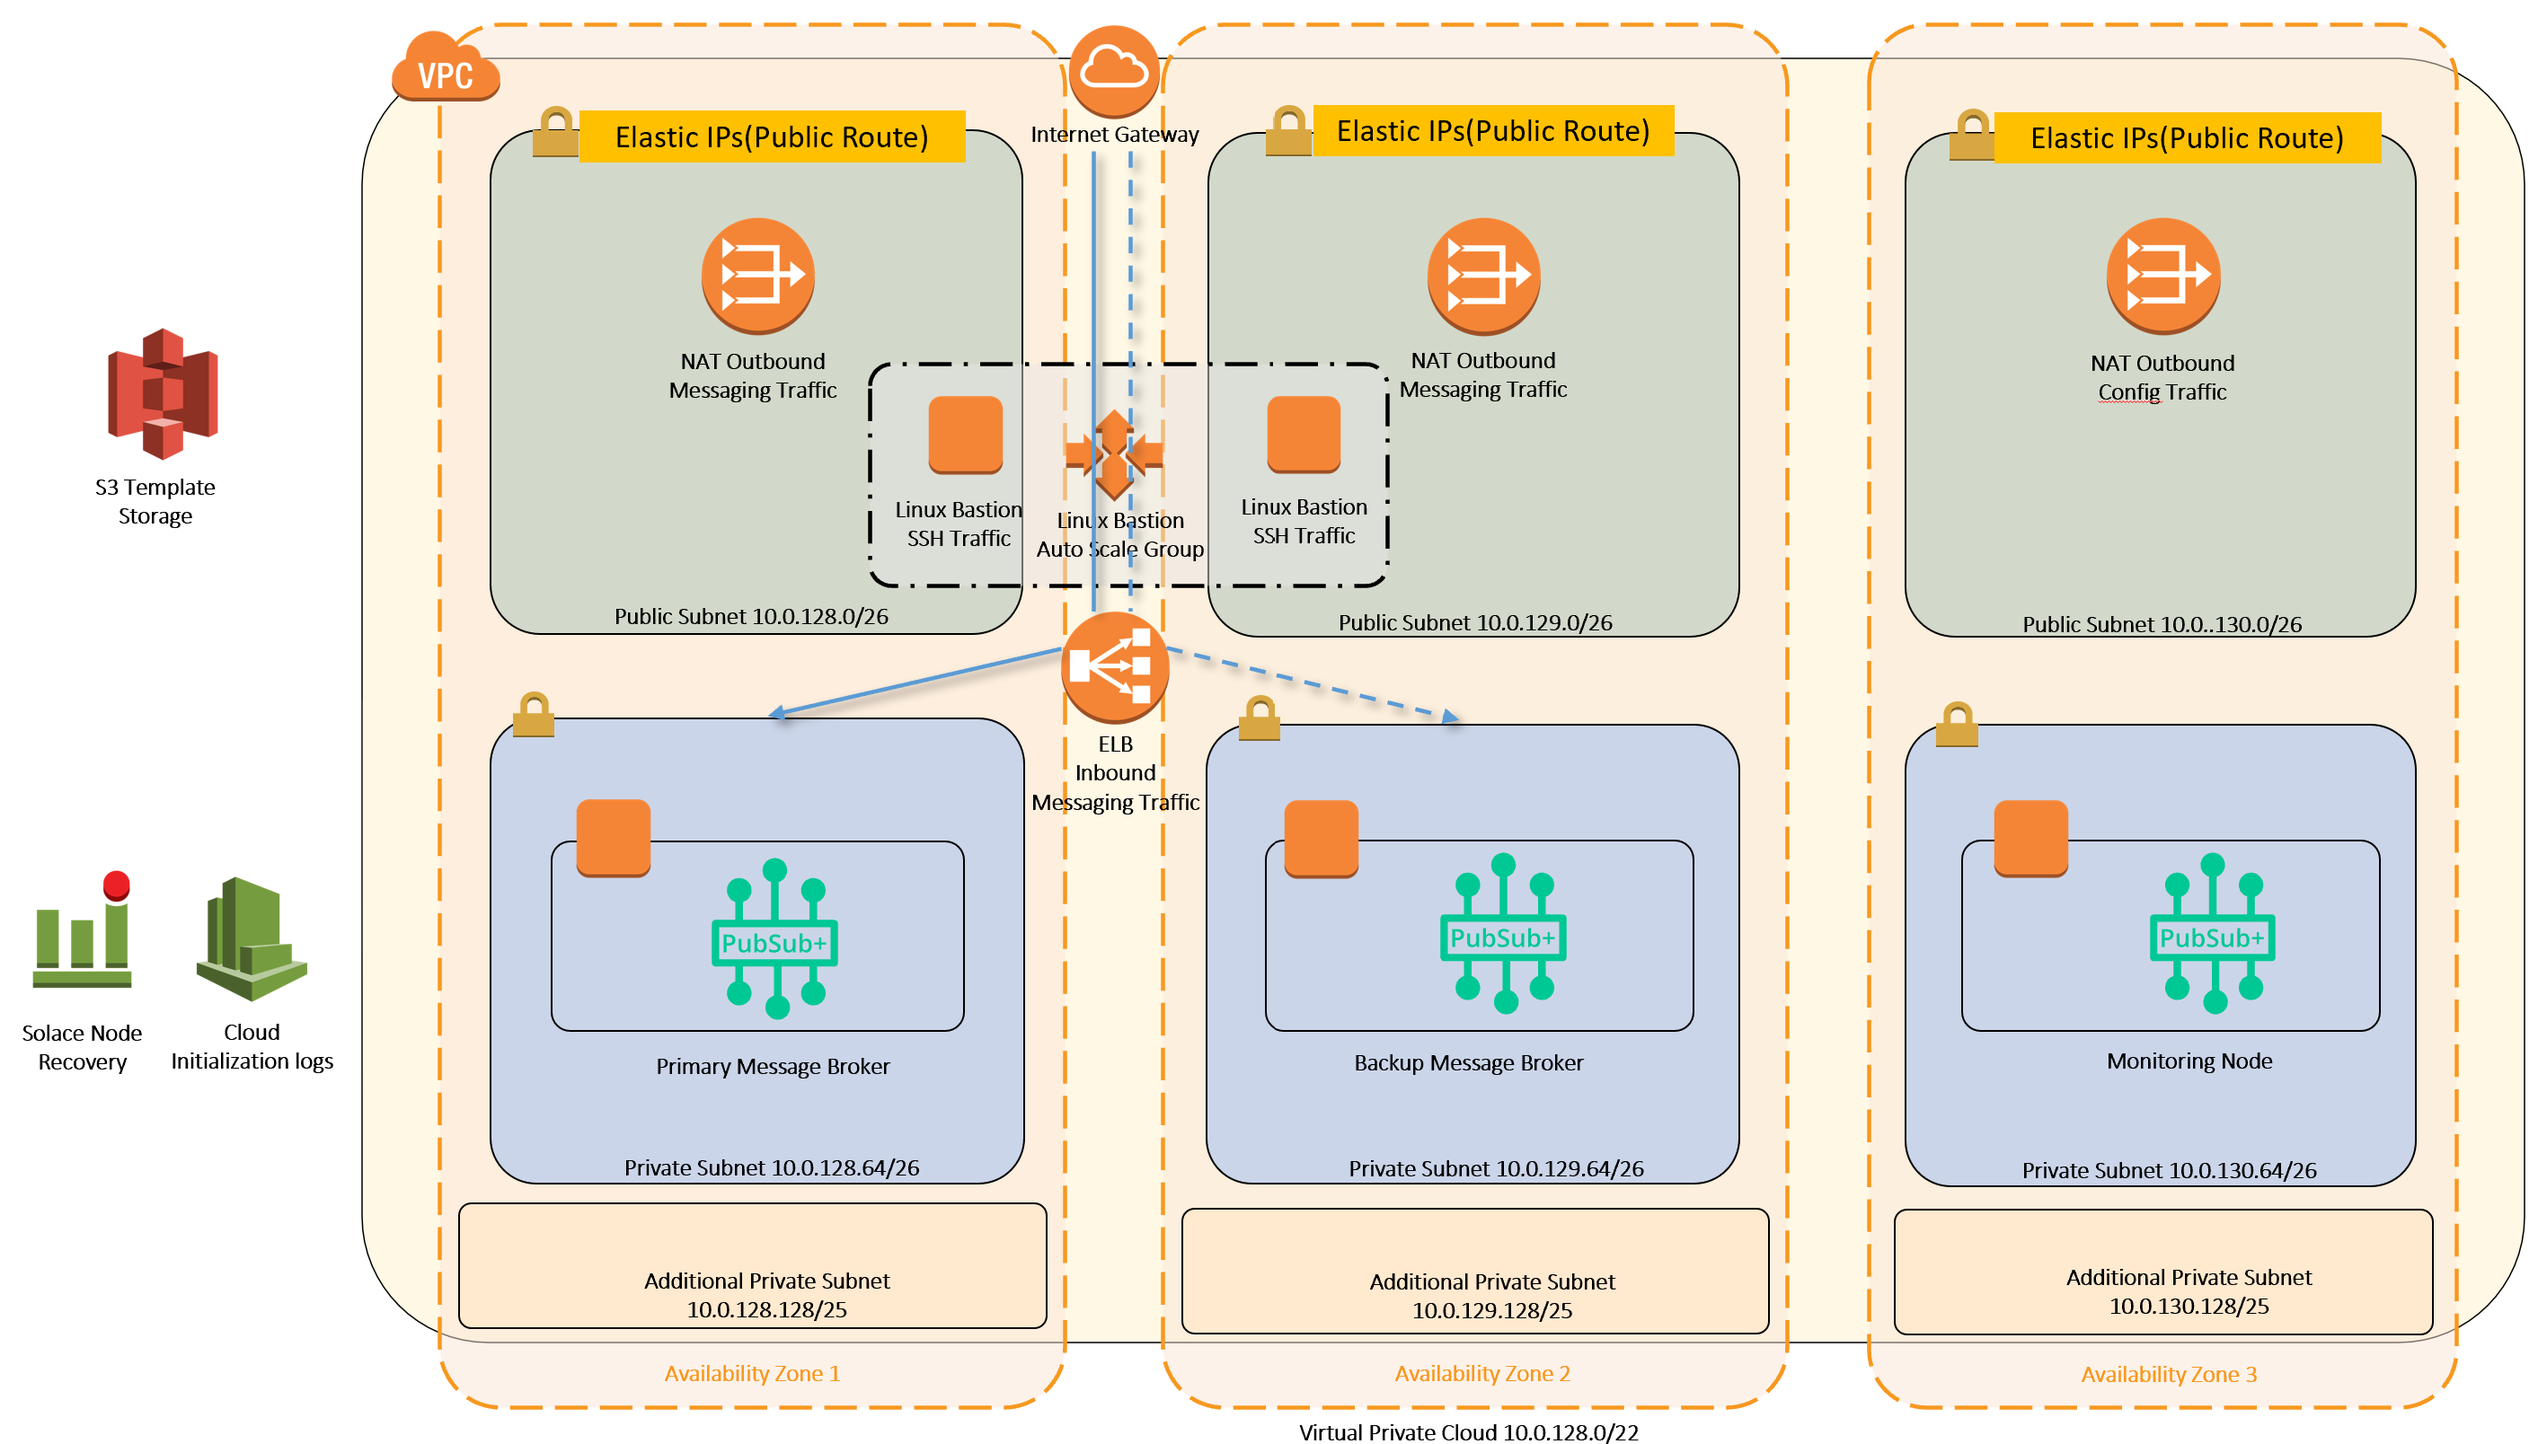
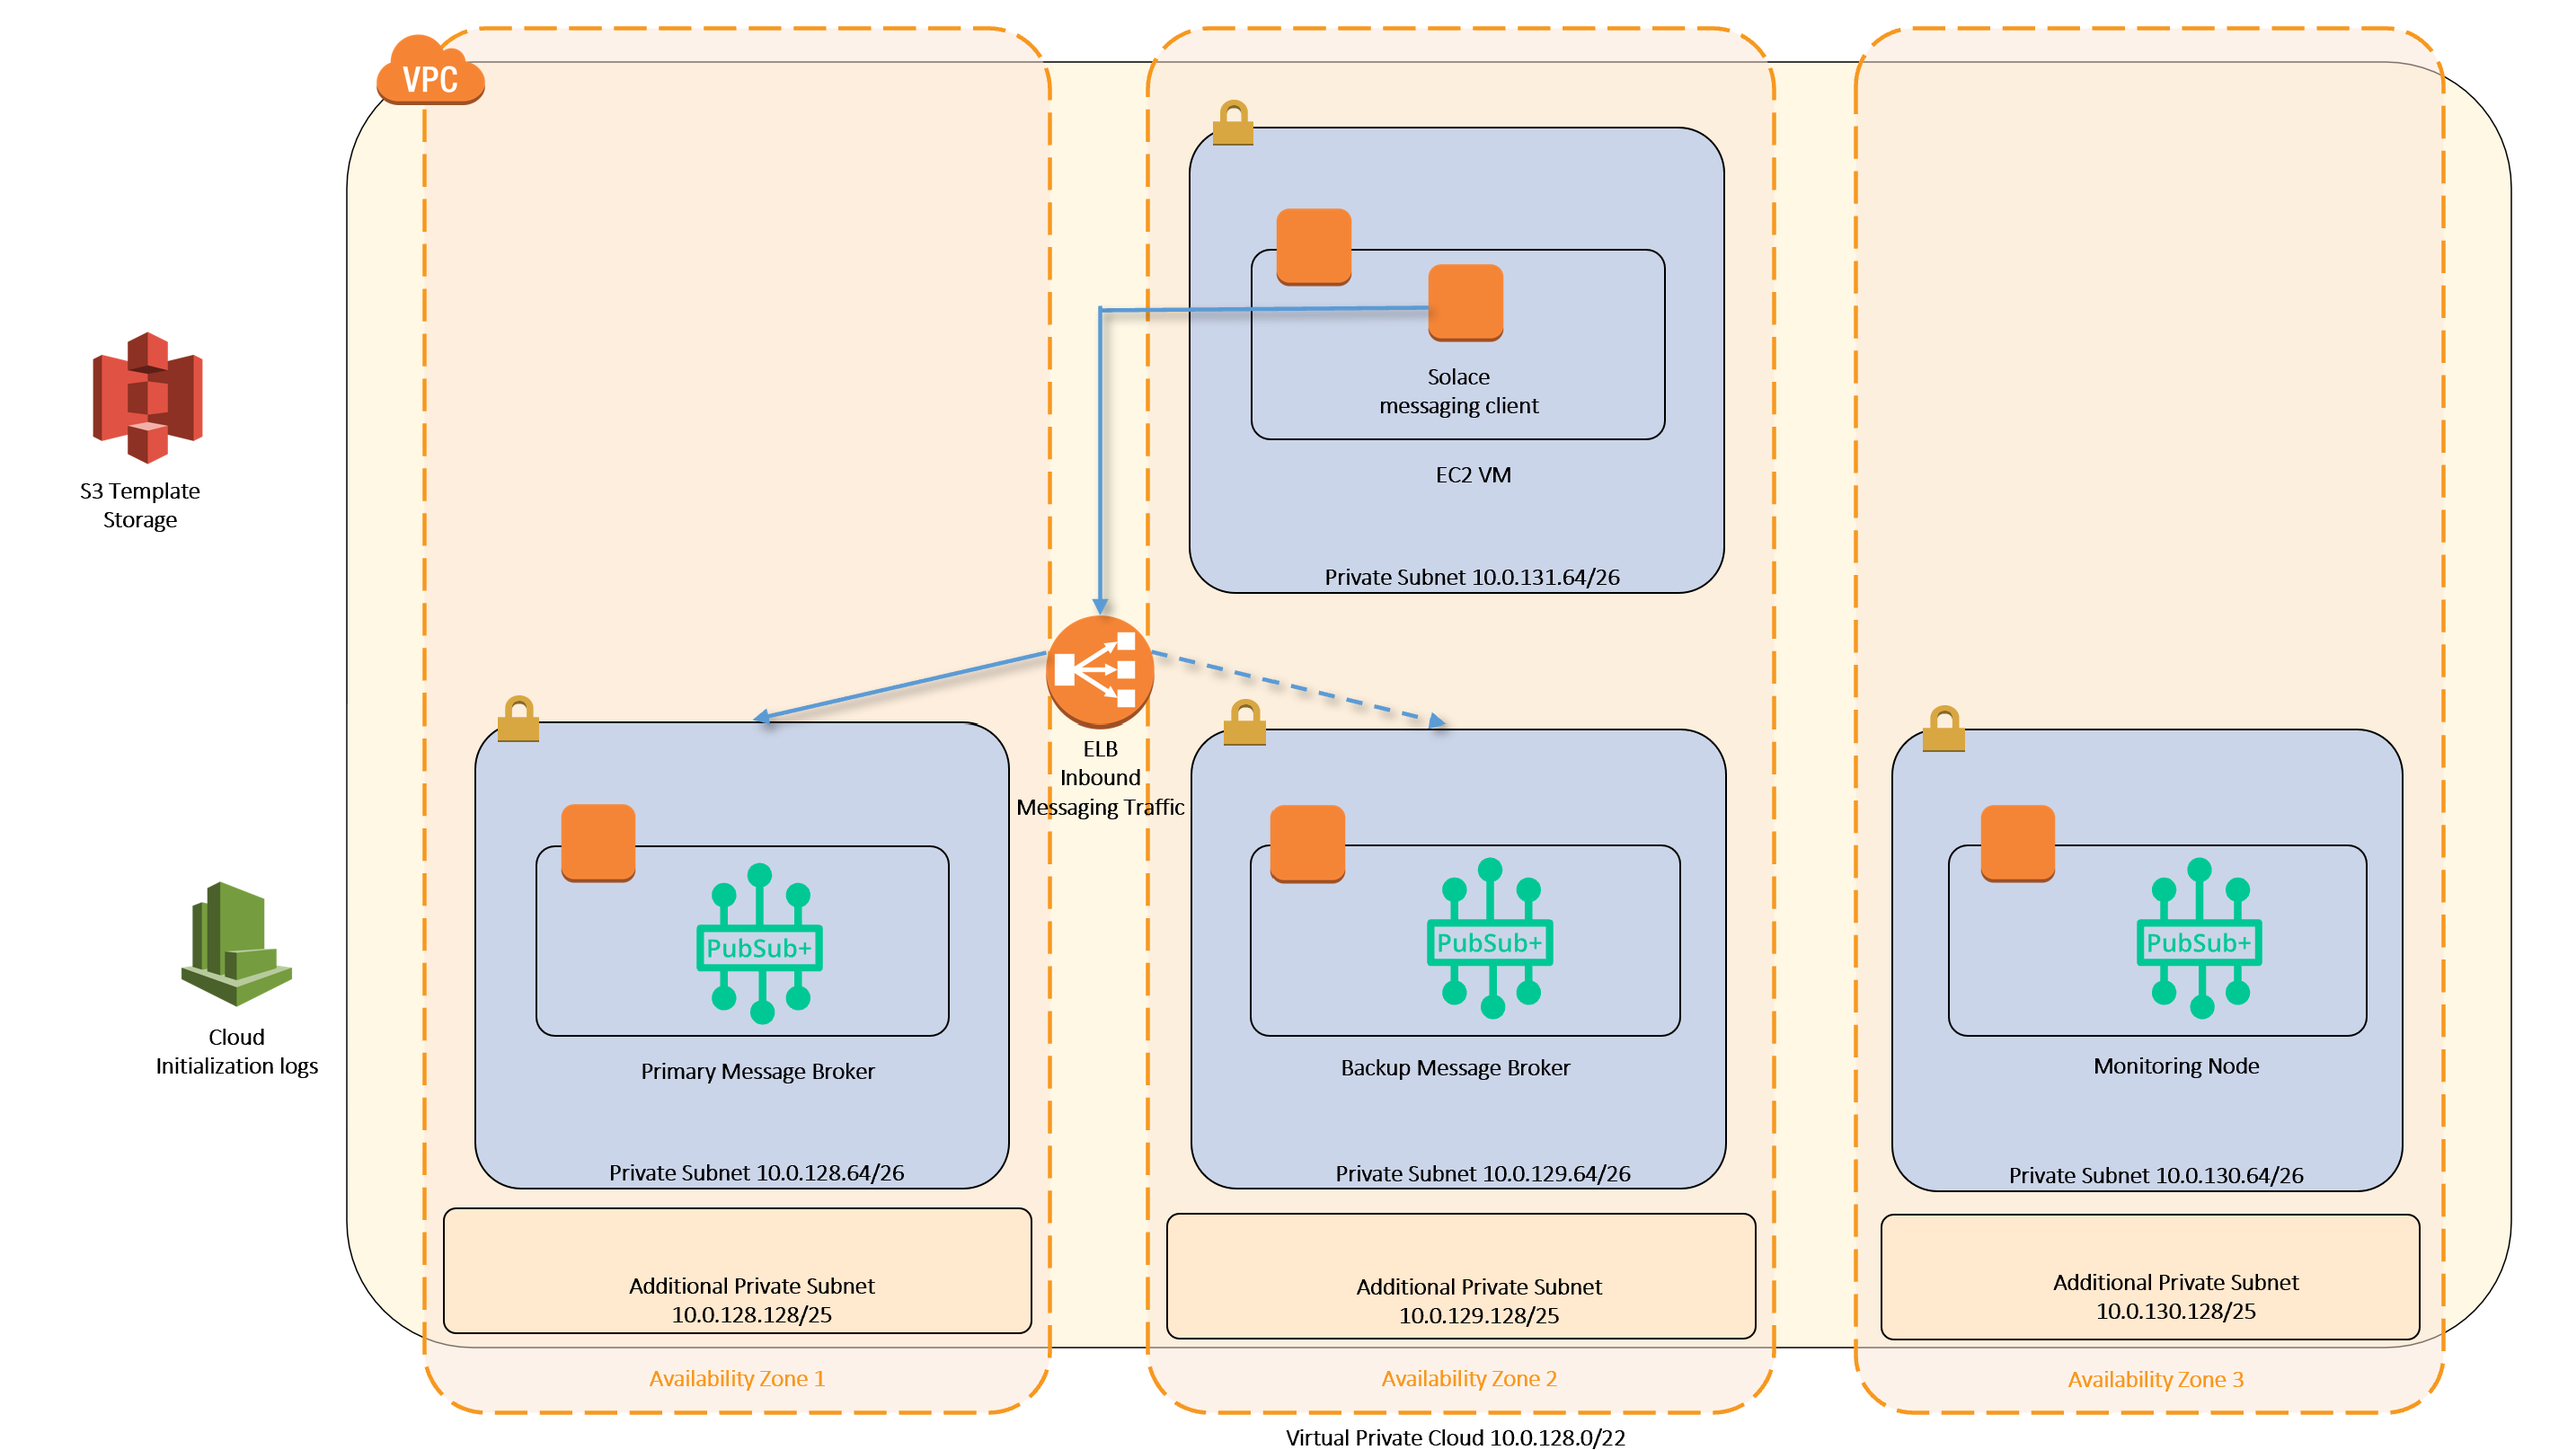
SOL-72072 | Document media updated

diff --git a/README.md b/README.md
@@ -68,8 +68,8 @@ The Docker image reference can be:
 
 **Step 2**: Go to the AWS Cloud Formation service and launch the template. The following links are for your convenience and take you directly to the event broker templates.
 
-**Note:** Using `Launch Quick Start (for new VPC)` launches the AWS infrastructure stacks needed with the event broker stack on top (recommended). However, if you have previously launched this Quick Start within your target region and would like to re-deploy just the event broker stack on top of the existing AWS infrastructure stacks, you can use `Launch Quick Start (for existing VPC)`. 
-This approach of deployment of the PubSub+ Event Broker is associated with Launch Option 2 and 3, similarly `Launch Quick Start (for new VPC)` is for Launch Option 1.
+**Note:** Using `Launch Quick Start (for new VPC)` launches the AWS infrastructure stacks needed with the event broker stack on top (recommended)[-see Launch Option 1 in the next section of this document](#launch-option-1-parameters-for-deploying-into-a-new-vpc). However, if you have already have a VPC or previously launched this Quick Start within your target region and would like to re-deploy just the event broker stack on top of the existing AWS infrastructure stacks, you can use `Launch Quick Start (for existing VPC)`. 
+This approach of deployment of the PubSub+ Event Broker is associated with Launch [Option 2](#launch-option-2-parameters-for-deploying-into-an-existing-vpc-with-publicly-accessible-broker-services) and [3](#launch-option-3-parameters-for-deploying-into-an-existing-vpc-with-broker-services-accessible-internally-within-vpc-only).
 
 <a href="https://console.aws.amazon.com/cloudformation/home#/stacks/new?stackName=Solace-HA&templateURL=https://s3.amazonaws.com/solace-products/pubsubplus-aws-ha-quickstart/latest/templates/solace-master.template" target="_blank">
     <img src="/images/launch-button-new.png"/>
